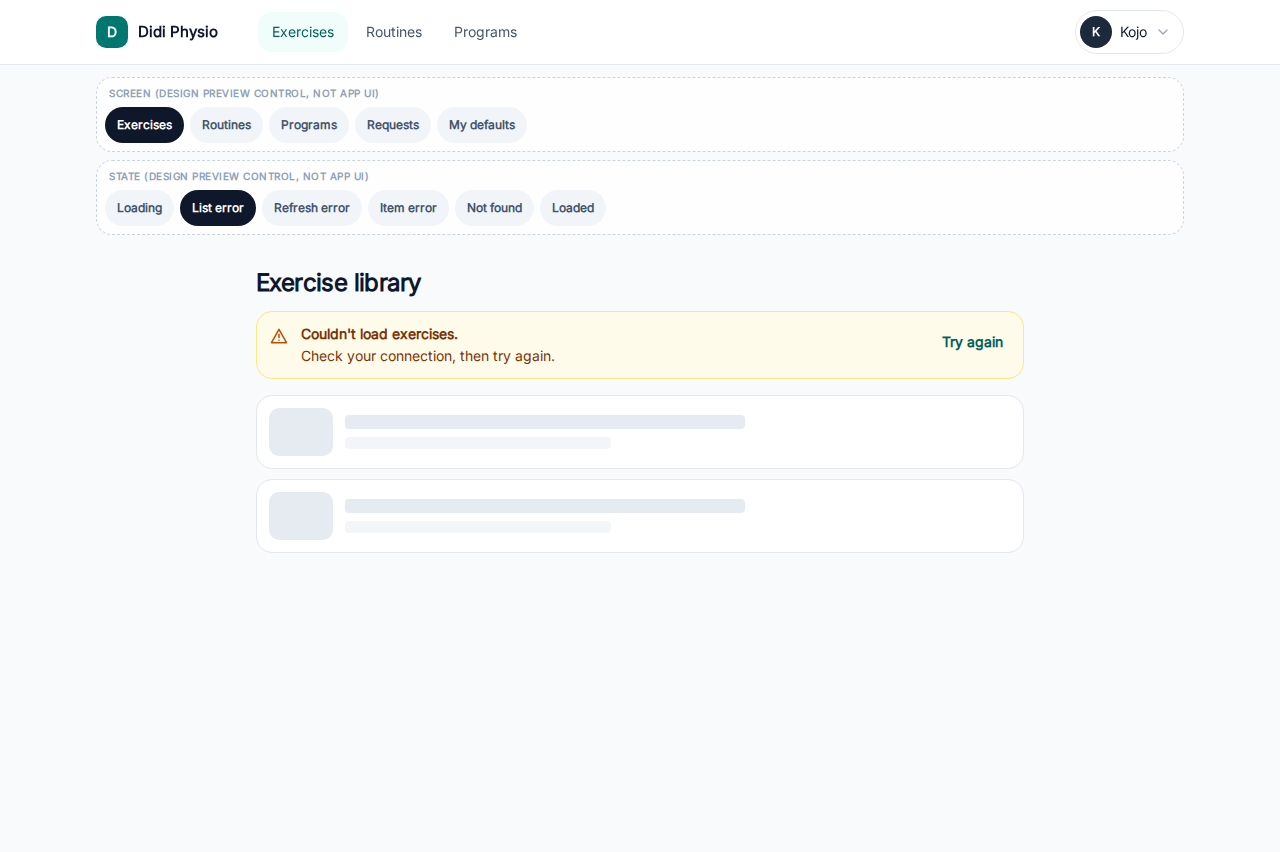
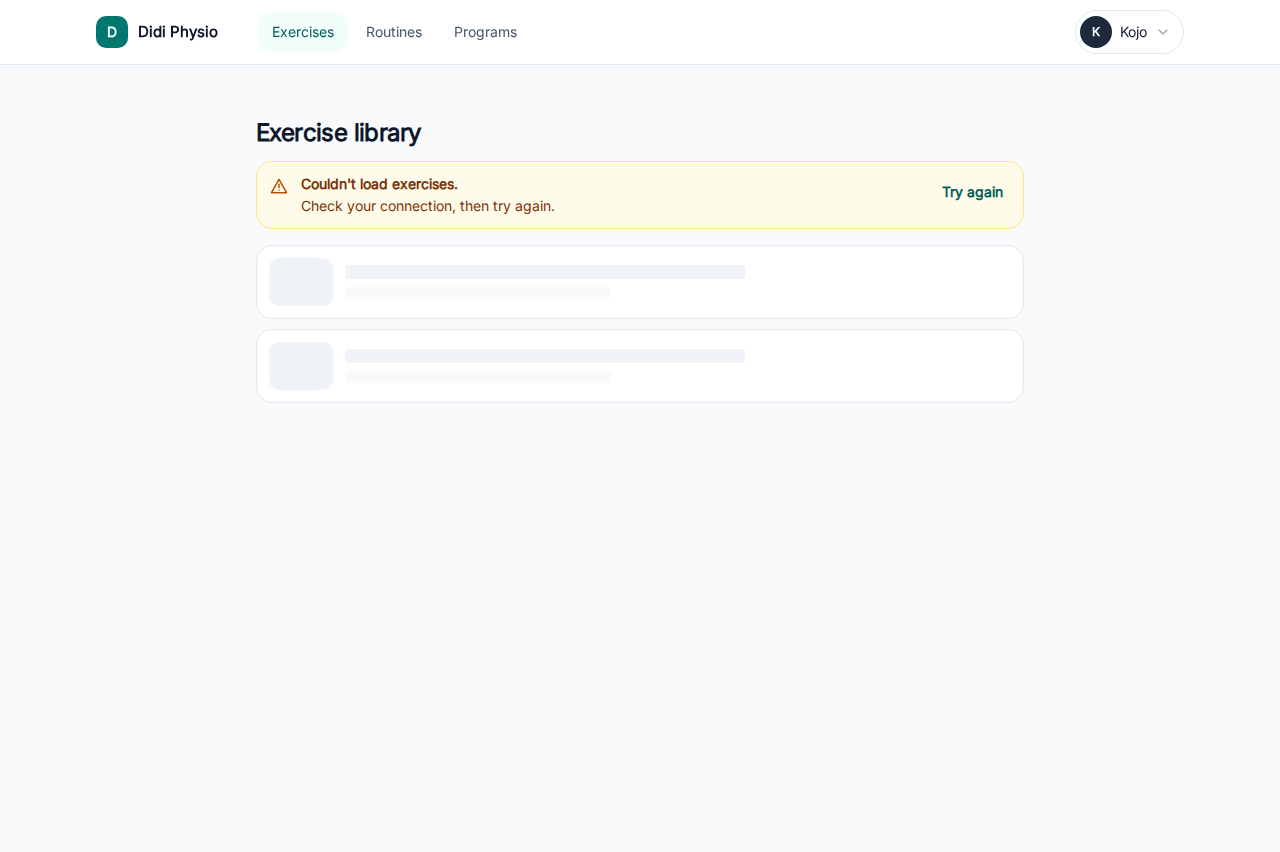
design(DIDI-1080): failed-save Designer picks from DIDI-1273
Map 19 action-specific failed-save strings (abb34765 / 0ca2d594).
QA R2: refresh banner single line, recaptured mockups without
preview chrome, fix Changes citation, {t} default placeholder.

Verified: npm run check

diff --git a/design/app/shared-load-states/spec.md b/design/app/shared-load-states/spec.md
@@ -120,55 +120,54 @@ Each line is one alert. **{item}** uses the noun only (exercise, routine, progra
 
 Last two lines use fixed wording (library exercise field conflict), not `{item}`.
 
-### Failed-save mapping by action type
+### Failed-save strings (Designer pick, DIDI-1273)
 
-Per DIDI-594 lock `fed76bfb` ("change the wording so it matching the error") and Designer response to QA R1 on [DIDI-1080](https://linear.app/didi-build/issue/DIDI-1080) comment `6e041ed6`, map the four locked strings (`7e4a9711`) only when the action truly matches. Map by **action type**; developer maps any new action by type once wording exists. No new strings in this spec.
+**Designer pick** ([DIDI-1273](https://linear.app/didi-build/issue/DIDI-1273) comment `abb34765`, CTO ruling `0ca2d594`, under the Nov 21 standing rule on DIDI-594 `a887af34`): each row is one failed-save alert. Primary line below, then secondary **Check your connection, then try again.**, then **Try again** button.
 
-| Action type | Alert string |
-| -- | -- |
-| Save or edit | Couldn't save the {item}. Try again. |
-| Delete or remove | Couldn't remove the {item}. Try again. |
-| Switch to the library version | Couldn't switch to the library version. Try again. |
-| Keep your own version | Couldn't keep your version. Try again. |
-
-#### Mapped actions (locked strings apply)
-
-| Screen | Action (from feature specs) | Action type | `{item}` when used |
-| -- | -- | -- | -- |
-| Exercise library | Save as version N+1 (Edit for everyone) | Save or edit | exercise |
-| Exercise library | Edit my copy save | Save or edit | exercise |
-| Exercise library | Remove from My exercises | Delete or remove | exercise |
-| Exercise library | Use library version (field conflict) | Switch to the library version | (fixed string) |
-| Exercise library | Keep mine (field conflict) | Keep your own version | (fixed string) |
-| Routines | Edit for everyone save | Save or edit | routine |
-| Routines | Edit my copy save | Save or edit | routine |
-| Routines | Remove from My routines | Delete or remove | routine |
-| Routines | Keep mine (decline community update) | Keep your own version | (fixed string) |
-| Programs | Delete program (confirm) | Delete or remove | program |
-
-#### Open: needs Diadem (no string in this spec)
-
-| Screen | Action | Why open |
+| Screen | Action | Primary line |
 | -- | -- | -- |
-| Exercise library | Regenerate media (confirm) | Not a save; conflicts with DIDI-1210 image-failure copy |
-| Exercise library | Restore this version | Locked save string does not match restore |
-| Exercise library | Merge (confirm) | Locked save string does not match merge |
-| Routines | Draft autosave | Wording not approved for autosave failure |
-| Routines | Publish now (community publish) | Publish is not the same as save in copy |
-| Routines | Discard draft | Remove string does not match discard |
-| Routines | Use version N (adopt community on saved copy) | Not switch or save as locked |
-| Routines | Restore this version | Locked save string does not match restore |
-| Programs | Builder autosave | Wording not approved (programs spec still has its own save-failure block until wired) |
-| Programs | Publish / republish | Publish is not the same as save in copy |
-| Programs | Restore from Recently deleted | Locked save string does not match restore |
-| Programs | Remove exercise row from builder | Wording not approved |
-| Programs | Save per-program expiry (Publish or share sheet) | Wording not approved |
-| Requests and drafts | Submit request | Not approved |
-| Requests and drafts | Draft review edits | Not approved |
-| Requests and drafts | Approve | Approve is not save |
-| Requests and drafts | Discard or dismiss draft | Wording not approved |
-| My defaults | Save share-link default | Success copy is already **Saved your … default**; failure string not approved |
-| My defaults | Save exercise-type default row | Same as above |
+| Exercise library | Regenerate media (confirm) | Couldn't regenerate the images. |
+| Exercise library | Restore this version | Couldn't restore this version. |
+| Exercise library | Merge (confirm) | Couldn't merge the exercises. |
+| Routines | Draft autosave | Couldn't save the draft. |
+| Routines | Publish now (community publish) | Couldn't publish the routine. |
+| Routines | Discard draft | Couldn't discard the draft. |
+| Routines | Use version N (adopt community on saved copy) | Couldn't switch to this version. |
+| Routines | Restore this version | Couldn't restore this version. |
+| Programs | Builder autosave | Couldn't save the program. |
+| Programs | Publish or republish | Couldn't publish the program. |
+| Programs | Restore from Recently deleted | Couldn't restore the program. |
+| Programs | Remove exercise row from builder | Couldn't remove the exercise. |
+| Programs | Save per-program expiry (Publish or share sheet) | Couldn't save the link expiry. |
+| Requests and drafts | Submit request | Couldn't submit the request. |
+| Requests and drafts | Draft review edits | Couldn't save your edits. |
+| Requests and drafts | Approve | Couldn't approve the draft. |
+| Requests and drafts | Discard or dismiss draft | Couldn't discard the draft. |
+| My defaults | Save share-link default | Couldn't save your default. |
+| My defaults | Save exercise-type default row | Couldn't save your default. |
+
+Success copy on My defaults remains **Saved your {t} default** (`design/app/settings-link-expiry/spec.md`).
+
+### Failed-save mapping
+
+Per DIDI-594 lock `fed76bfb` ("change the wording so it matching the error"), use lock `7e4a9711` only when the action truly matches. Use the **Failed-save strings (Designer pick, DIDI-1273)** table for every other listed action.
+
+#### Mapped actions (`7e4a9711` format: one semibold line includes **Try again.** as words, plus **Try again** button)
+
+| Screen | Action (from feature specs) | Alert (lock `7e4a9711`) |
+| -- | -- | -- |
+| Exercise library | Save as version N+1 (Edit for everyone) | Couldn't save the exercise. Try again. |
+| Exercise library | Edit my copy save | Couldn't save the exercise. Try again. |
+| Exercise library | Remove from My exercises | Couldn't remove the exercise. Try again. |
+| Exercise library | Use library version (field conflict) | Couldn't switch to the library version. Try again. |
+| Exercise library | Keep mine (field conflict) | Couldn't keep your version. Try again. |
+| Routines | Edit for everyone save | Couldn't save the routine. Try again. |
+| Routines | Edit my copy save | Couldn't save the routine. Try again. |
+| Routines | Remove from My routines | Couldn't remove the routine. Try again. |
+| Routines | Keep mine (decline community update) | Couldn't keep your version. Try again. |
+| Programs | Delete program (confirm) | Couldn't remove the program. Try again. |
+
+All other actions in the feature specs use the matching row in **Failed-save strings (Designer pick, DIDI-1273)**.
 
 ## Layout and accessibility (option C)
 
@@ -192,7 +191,7 @@ From revision `466879036132560897` (`LoadStatesCore.tsx`, variant `C`).
 | Primary text | `text-sm font-semibold text-amber-900` |
 | **Try again** | Ghost-style control on the right; min height 44 px; teal text |
 
-**Designer pick** ([DIDI-1080](https://linear.app/didi-build/issue/DIDI-1080) comment `6e041ed6`): The approved secondary line **Check your connection, then try again.** appears as a second line in the banner body under the semibold primary line (`font-normal`, same amber-900). MagicPath revision `466879036132560897` shows only the primary line in the banner; build and mockups 02 and 04 include both lines.
+**Designer pick** ([DIDI-1080](https://linear.app/didi-build/issue/DIDI-1080) comment `6e041ed6`): On **list load error** and **item load error** banners only, the approved secondary line **Check your connection, then try again.** appears as a second line in the banner body under the semibold primary line (`font-normal`, same amber-900). **Refresh failure** uses only **Couldn't refresh. You're seeing what loaded earlier.** (no secondary line). Mockups 02 and 04 include both load-error lines; mockup 03 does not.
 
 ### Not found
 
@@ -208,7 +207,8 @@ From revision `466879036132560897` (`LoadStatesCore.tsx`, variant `C`).
 | Element | Treatment |
 | -- | -- |
 | Container | `role="alert"`; amber panel matching banner colours, compact padding |
-| Message | One semibold line (includes **Try again** as words) |
+| Message (`7e4a9711` rows) | One semibold line (includes **Try again.** as words) |
+| Message (DIDI-1273 rows) | Primary line from the action table, then secondary **Check your connection, then try again.** |
 | **Try again** button | Bordered secondary button, same retry behaviour as banners |
 
 **Designer pick** ([DIDI-1080](https://linear.app/didi-build/issue/DIDI-1080) comment `6e041ed6`): Failed-save alert layout follows mockup `06-failed-save`; placement is directly under the screen or sheet title on whichever surface triggered the save.
@@ -256,5 +256,7 @@ Exercises screen is the canonical capture; the same patterns apply on the other 
 ## Changes
 
 - **Nov 21, 2026**: DIDI-1080. Option C approved; strings locked `fed76bfb` and `7e4a9711`; variant lock `2bdbb75b`. Blocks [DIDI-1082](https://linear.app/didi-build/issue/DIDI-1082) until merged. https://linear.app/didi-build/issue/DIDI-1080
-- **Nov 21, 2026**: Designer picks on DIDI-594 `a887af34`: refresh vs list load error rule, My defaults scope, failed-save action-type mapping and known-actions table (no new strings).
-- **Nov 21, 2026**: QA R1 fixes. Narrow failed-save mapping; Open rows for non-matching actions (`6e041ed6`). Recaptured mockups (390 / 1280, DIDI-1173 nav, banner secondary line, item loading). Cite `2bdbb75b` for refresh rule. https://github.com/didi-build/physio-poc/pull/144#pullrequestreview-6003519268
+- **Nov 21, 2026**: Designer picks recorded on [DIDI-1080](https://linear.app/didi-build/issue/DIDI-1080) comment `6e041ed6` (My defaults scope, banner layout, failed-save placement). Refresh vs list load rule is lock `2bdbb75b`, not a Designer pick.
+- **Nov 21, 2026**: QA R1 fixes. Narrow failed-save mapping; Open rows for non-matching actions (`6e041ed6`). Recaptured mockups (390 / 1280, DIDI-1173 nav, banner secondary line, item loading). https://github.com/didi-build/physio-poc/pull/144#pullrequestreview-6003519268
+- **Nov 21, 2026**: Follow-up after merge `2a2b3ca`. Failed-save strings for 19 actions ([DIDI-1273](https://linear.app/didi-build/issue/DIDI-1273) comment `abb34765`, CTO `0ca2d594`). Mockup R2: hide preview chrome, refresh banner single line. https://linear.app/didi-build/issue/DIDI-1080
+
